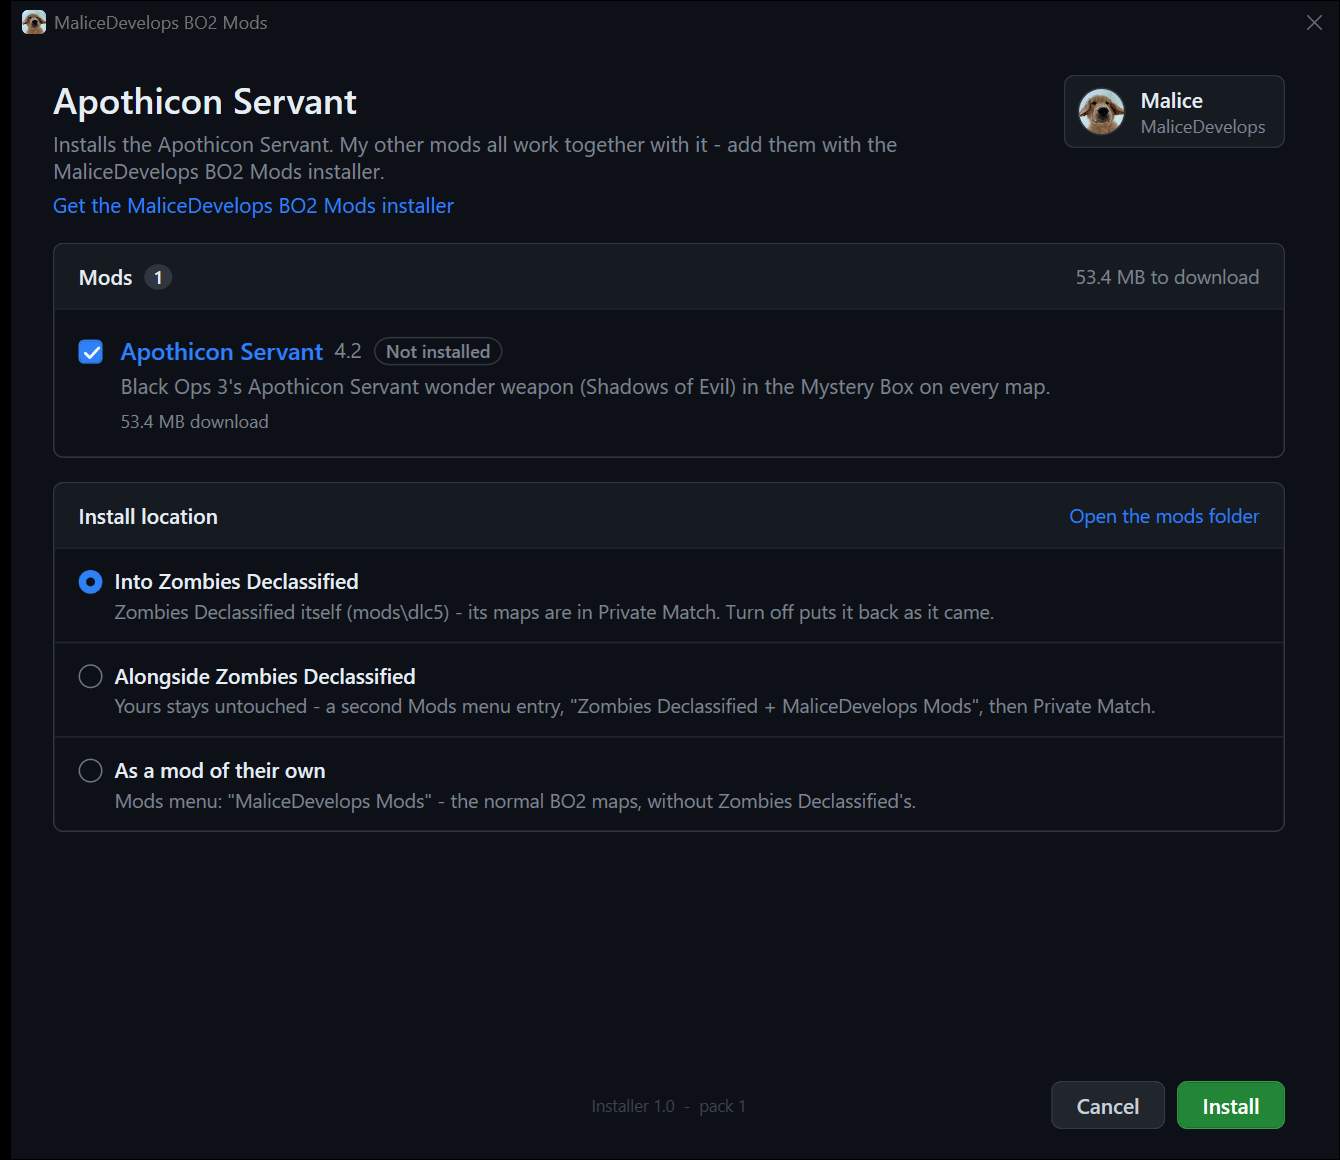
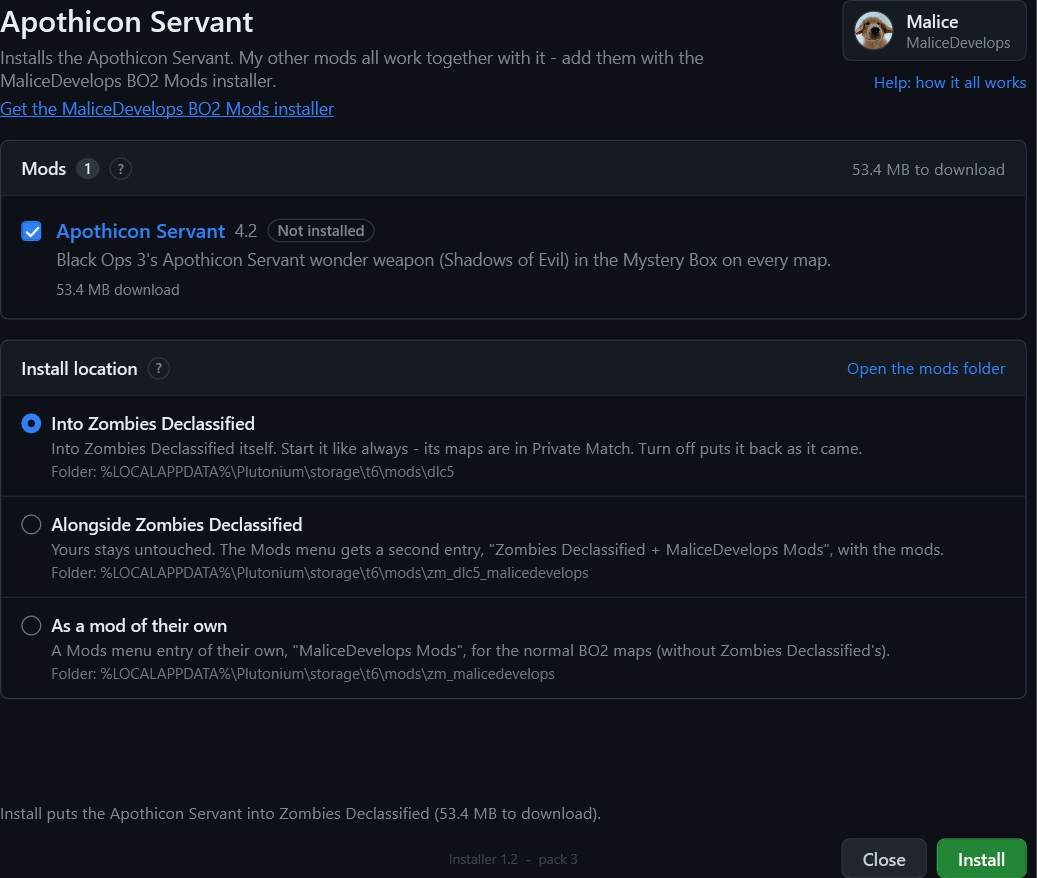
README: the installer's new window

diff --git a/README.md b/README.md
@@ -27,6 +27,8 @@ This download installs only the Apothicon Servant. Its window:
 
 <img src="images/installer-window.png" width="620" alt="The Apothicon Servant's installer window">
 
+Everything happens in that window: it shows the progress, says where the mod is and how to play it, and explains every part - hover over anything, or press **Help**.
+
 The installer stays on your PC: a **MaliceDevelops BO2 Mods** shortcut on your desktop and in the Start menu opens it again, so you don't need to keep the zip.
 
 Install.bat needs Windows 10 or 11 and an internet connection. To install by hand instead, follow `README.txt` in the download.
